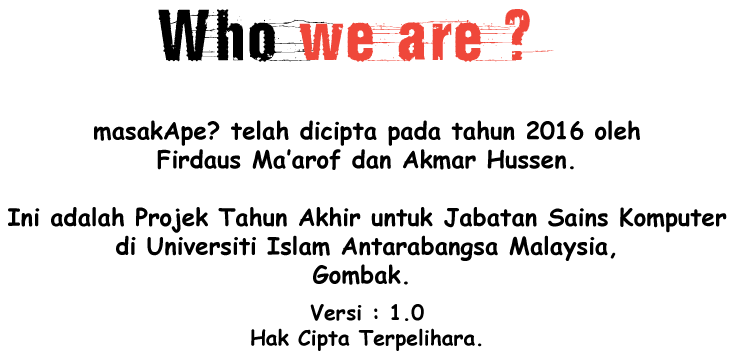
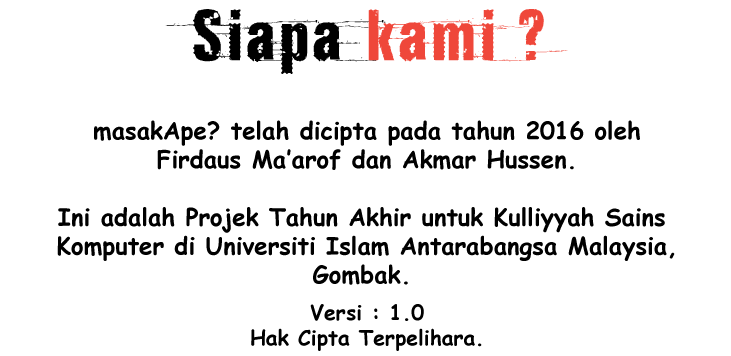
finalize semua sekali zzzz

Changed region(s): [[0.0, 0.5871, 0.9932, 0.7416], [0.2107, 0.0, 0.7825, 0.2163]]

diff --git a/www/layouts-bm/aboutUs.html b/www/layouts-bm/aboutUs.html
@@ -7,10 +7,17 @@
      
     </ion-header-bar>
 
-      <ion-content class="scroll ">
+      <ion-content class="scroll padding ">
 
-        <div >
-        <center><img class= 'aboutUs' src="img/aboutContentBm.png"></center></div>
+      
+        <center><img class= 'aboutUs' src="img/logo5.png"></center>
+        <div class="aboutUsContent">
+        <h5>masakApe? adalah Sistem Cadangan Resipi yang digunakan untuk memudahkan orang dalam mencari resipi berdasarkan pilihan sendiri. Ia akan membantu dalam membuat keputusan dan memilih menu untuk memasak. Cubalah sekarang untuk mendapatkan resipi hebat yang disyorkan oleh kami!</h5>
+        <h5>masakApe? telah dicipta pada tahun 2016 oleh Firdaus Ma'arof dan Akmar Hussen.</h5>
+        <h5>Ini adalah Projek Tahun Akhir untuk Kulliyyah Sains Komputer di Universiti Islam Antarabangsa Malaysia</h5>
+        <center><h6>Versi 1.0</h6>
+        <h6>Hak Cipta Terpelihara</h6></center>
+        </div>
 
       </ion-content>
 

diff --git a/www/js/controller.js b/www/js/controller.js
@@ -860,19 +860,19 @@ angular.module('starter.controllers', [])
 	$scope.feedback= [];
 
 	$scope.showToastFeedback = function(){
-      ionicToast.show('Your feedback has been send.', 'bottom',false, 2000);
+      ionicToast.show('Maklum balas anda telah dihantar.', 'bottom',false, 2000);
     };
 
     $scope.showToastFeedbackName = function(){
-      ionicToast.show('Please enter your name.', 'bottom',false, 2000);
+      ionicToast.show('Sila masukkan nama anda.', 'bottom',false, 2000);
     };
 
     $scope.showToastFeedbackEmail = function(){
-      ionicToast.show('Please enter your email.', 'bottom',false, 2000);
+      ionicToast.show('Sila masukkan emel anda.', 'bottom',false, 2000);
     };
 
     $scope.showToastFeedbackMessage = function(){
-      ionicToast.show('Please enter your message.', 'bottom',false, 2000);
+      ionicToast.show('Sila masukkan mesej anda.', 'bottom',false, 2000);
     };
 
 	$scope.sendFeedback = function sendFeedback(){

diff --git a/www/layouts/aboutUs.html b/www/layouts/aboutUs.html
@@ -9,9 +9,15 @@
 
       <ion-content class="scroll ">
 
-        <div >
-        <center><img class= 'aboutUs' src="img/aboutContent.png"></center></div>
-
+        
+        <center><img class= 'aboutUs' src="img/logo5.png"></center>
+        <div class="aboutUsContent">
+        <h5>masakApe? is a Recipe Recommendation System used to ease people in finding recipes based on users' preferences. It will help users in deciding and choosing menus to cook. Try it now to get an awesome recipes recommended by us!</h5>
+        <h5>masakApe? was built in 2016 and developed by Firdaus Ma'arof and Akmar Hussen.</h5>
+        <h5>This is a Final Year Project for Department of Computer Science, International Islamic University Malaysia. </h5>
+        <center><h6>Version 1.0</h6>
+        <h6>All Right Reserved</h6></center>
+        </div>
       </ion-content>
 
       <div class="tabs tabs-icon-top tabs-assertive" >

diff --git a/www/css/style.css b/www/css/style.css
@@ -282,8 +282,15 @@
 /*----------------------------------------------------About Us Page------------------------------------------------------*/
 
 .aboutUs {
-	width: 91%;
-    padding-top: 30px;
+	width: 35%;
+    padding-top: 20px;
+}
+
+.aboutUsContent {
+	width: 100%;
+    padding-top: 10px;
+    padding-left: 20px;
+    padding-right: 20px;
 }
 
 /*----------------------------------------------------Contact  Us Page------------------------------------------------------*/

diff --git a/www/layouts-bm/menu.html b/www/layouts-bm/menu.html
@@ -6,7 +6,7 @@
         <img class="mainLogo" src="img/mainLogo2.png" >
       </div>
        <div class="col">
-       <center><img class ="hometext" src="img/homeText.png"></center><br>
+       <center><img class ="hometext" src="img/homeTextBm.png"></center><br>
        <!-- <br><center><h4 class="hometext"> Want a suggestion? - Recipe! </h4></center><br> -->
        <center> <a class="btnMenuBm1" href="#/bm-bestRecipe"> Resipi Terbaik </a> </center>
        <br><br>

diff --git a/www/layouts-bm/ingredient.html b/www/layouts-bm/ingredient.html
@@ -10,7 +10,7 @@
           api-url="http://api.thebucketdev.com/masakape/ingredient/getAllBm.php"
           suggestions-arr="">
         </multiple-autocomplete>
-        <p class="warn"> *Sila pilih bahan bahan yang ada didalam peti sejuk anda. </p>
+        <p class="warn">*Sila pilih bahan bahan yang ada didalam peti sejuk anda. </p>
       
     </ion-content>
 
